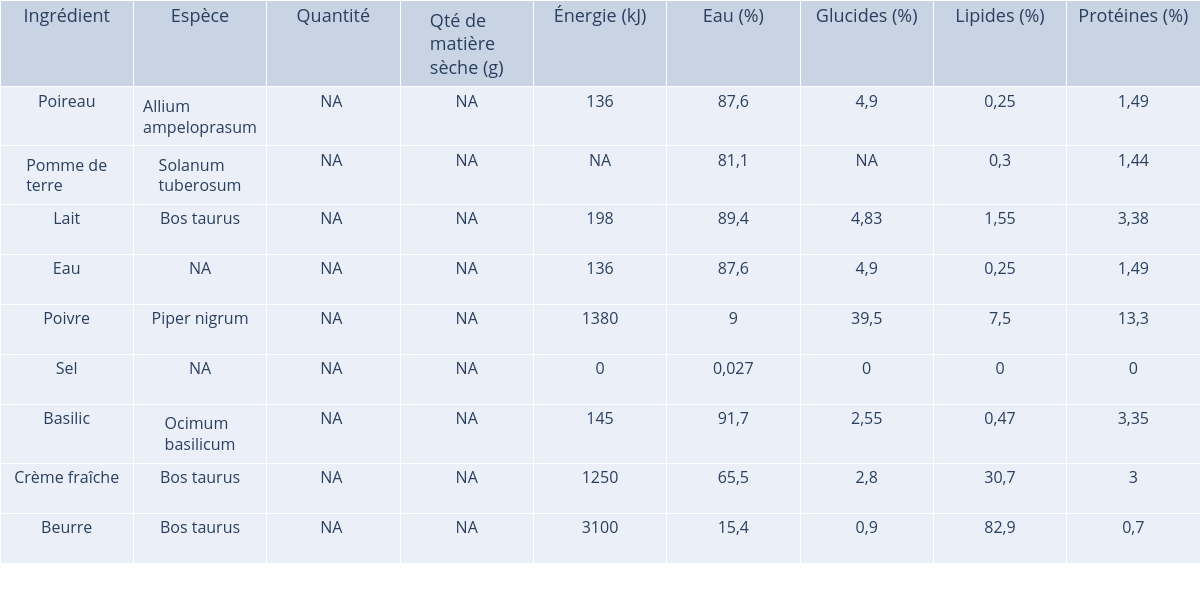
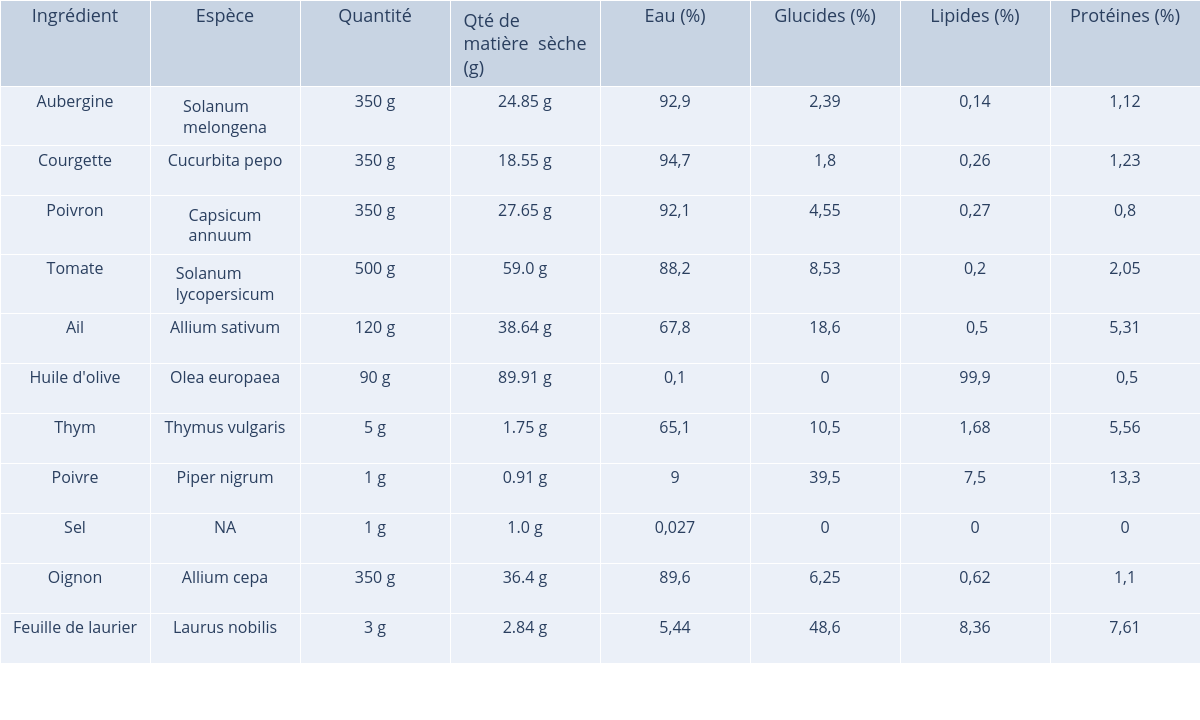
gitlab pages update

diff --git a/index.html b/index.html
@@ -1,42 +1,41 @@
+<html>
+    <head>
+        <meta charset="utf-8">
+        <title>Ratatouille</title>
+        <link rel="stylesheet" href="cli/css/style.css"> 
+        <script type="text/javascript" src="cli/js/script.js"></script>
+    </head>
 
-    <html>
-        <head>
-            <meta charset="utf-8">
-            <title>Potage velouté poireaux pommes de terre</title>
-            <link rel="stylesheet" href="cli/css/style.css"> 
-            <script type="text/javascript" src="cli/js/script.js"></script>
-        </head>
+    <body onload="onLoad()">
+        <div class="title">
+            <h1 id="page-title"> Diversité phylogénétique de l'assiette 
+                <div class="top-buttons-div">
+                    <button type="button" class="btn" id="gitlab_button">
+                        <img src="assets/gitlab.png" width="80%" height="80%">
+                    </button>
+                    <button type="button" class="btn" id="ucbl_button">
+                        <img src="assets/ucbl.png" width="80%" height="80%">
+                    </button>
+                    <button type="button" class="btn" id="marmiton_button">
+                        <img src="assets/marmiton.png" width="80%" height="80%">
+                    </button>
+                </div>
+            </h1>
+        </div>
 
-        <body onload="onLoad()">
-            <div class="title">
-                <h1 id="page-title"> Diversité phylogénétique de l'assiette 
-                    <div class="top-buttons-div">
-                        <button type="button" class="btn" id="gitlab_button">
-                            <img src="assets/gitlab.png" width="80%" height="80%">
-                        </button>
-                        <button type="button" class="btn" id="ucbl_button">
-                            <img src="assets/ucbl.png" width="80%" height="80%">
-                        </button>
-                        <button type="button" class="btn" id="marmiton_button">
-                            <img src="assets/marmiton.png" width="80%" height="80%">
-                        </button>
-                    </div>
-                </h1>
-            </div>
-    
-            <div id=Potage-velouté-poireaux-pommes-de-terre class="recipe-info">
-                <p><b>Name of the recipe: </b>Potage velouté poireaux pommes de terre</p>
-                <p><b>URL of the recipe: </b>https://www.marmiton.org/recettes/recette_potage-veloute-poireaux-pommes-de-terre_18971.aspx</p>
-                <p><b>Number of ingredients: </b>9</p>
-                <p><b>Number of specie found for the ingredients: </b>5</p>
-                <p><b>Ingredients that haven't match with a species: </b>Eau, Sel</p>
-                <img src="assets/example_html.png">
-                <p><b>Phylogenetic diversity: </b>210.67</p>
-                <p><b>Weighted phylogenetic diversity: </b>NA</p>
-                <p><b>Shannon's index: </b>NA</p>
-                <p><b>Simpson's index: </b>NA</p>
-                <iframe src="cli/lifemap-frame/lifemap.html?lang=en&tid=4681,9913,39350,13216,4113&zoom=false&markers=true&tree=true&searchbar=false&clickableMarkers=true&zoomButton=true&colorLine=2a9d8f&opacityLine=0.8&weightLine=6" title="LifeMap frame from local file" width="80%" height="60%"></iframe>
-            </div>
-         
-        </body>
-    </html>
+        <div id=Ratatouille class="recipe-info">
+            <p><b>Name of the recipe: </b>Ratatouille</p>
+            <p><b>URL of the recipe: </b>https://www.marmiton.org/recettes/recette_ratatouille_23223.aspx</p>
+            <p><b>Number of ingredients: </b>11</p>
+            <p><b>Number of specie found for the ingredients: </b>10</p>
+            <p><b>Ingredients that haven't match with a species: </b>Sel</p>
+            <img src="assets/example_html.png">
+            <p><b>Phylogenetic diversity: </b>144.22</p>
+            <p><b>Weighted phylogenetic diversity: </b>14.27</p>
+            <p><b>Shannon's index: </b>2.37</p>
+            <p><b>Simpson's index: </b>1.61</p>
+            <iframe src="cli/lifemap-frame/lifemap.html?lang=en&tid=4679,4682,4072,3663,85223,4146,13216,4081,4111,49992&zoom=true&markers=true&tree=true&searchbar=false&clickableMarkers=true&zoomButton=true&colorLine=2a9d8f&opacityLine=0.8&weightLine=6" title="LifeMap frame from local file" width="80%" height="60%"></iframe>
+        </div>
+        
+    </body>
+</html>
